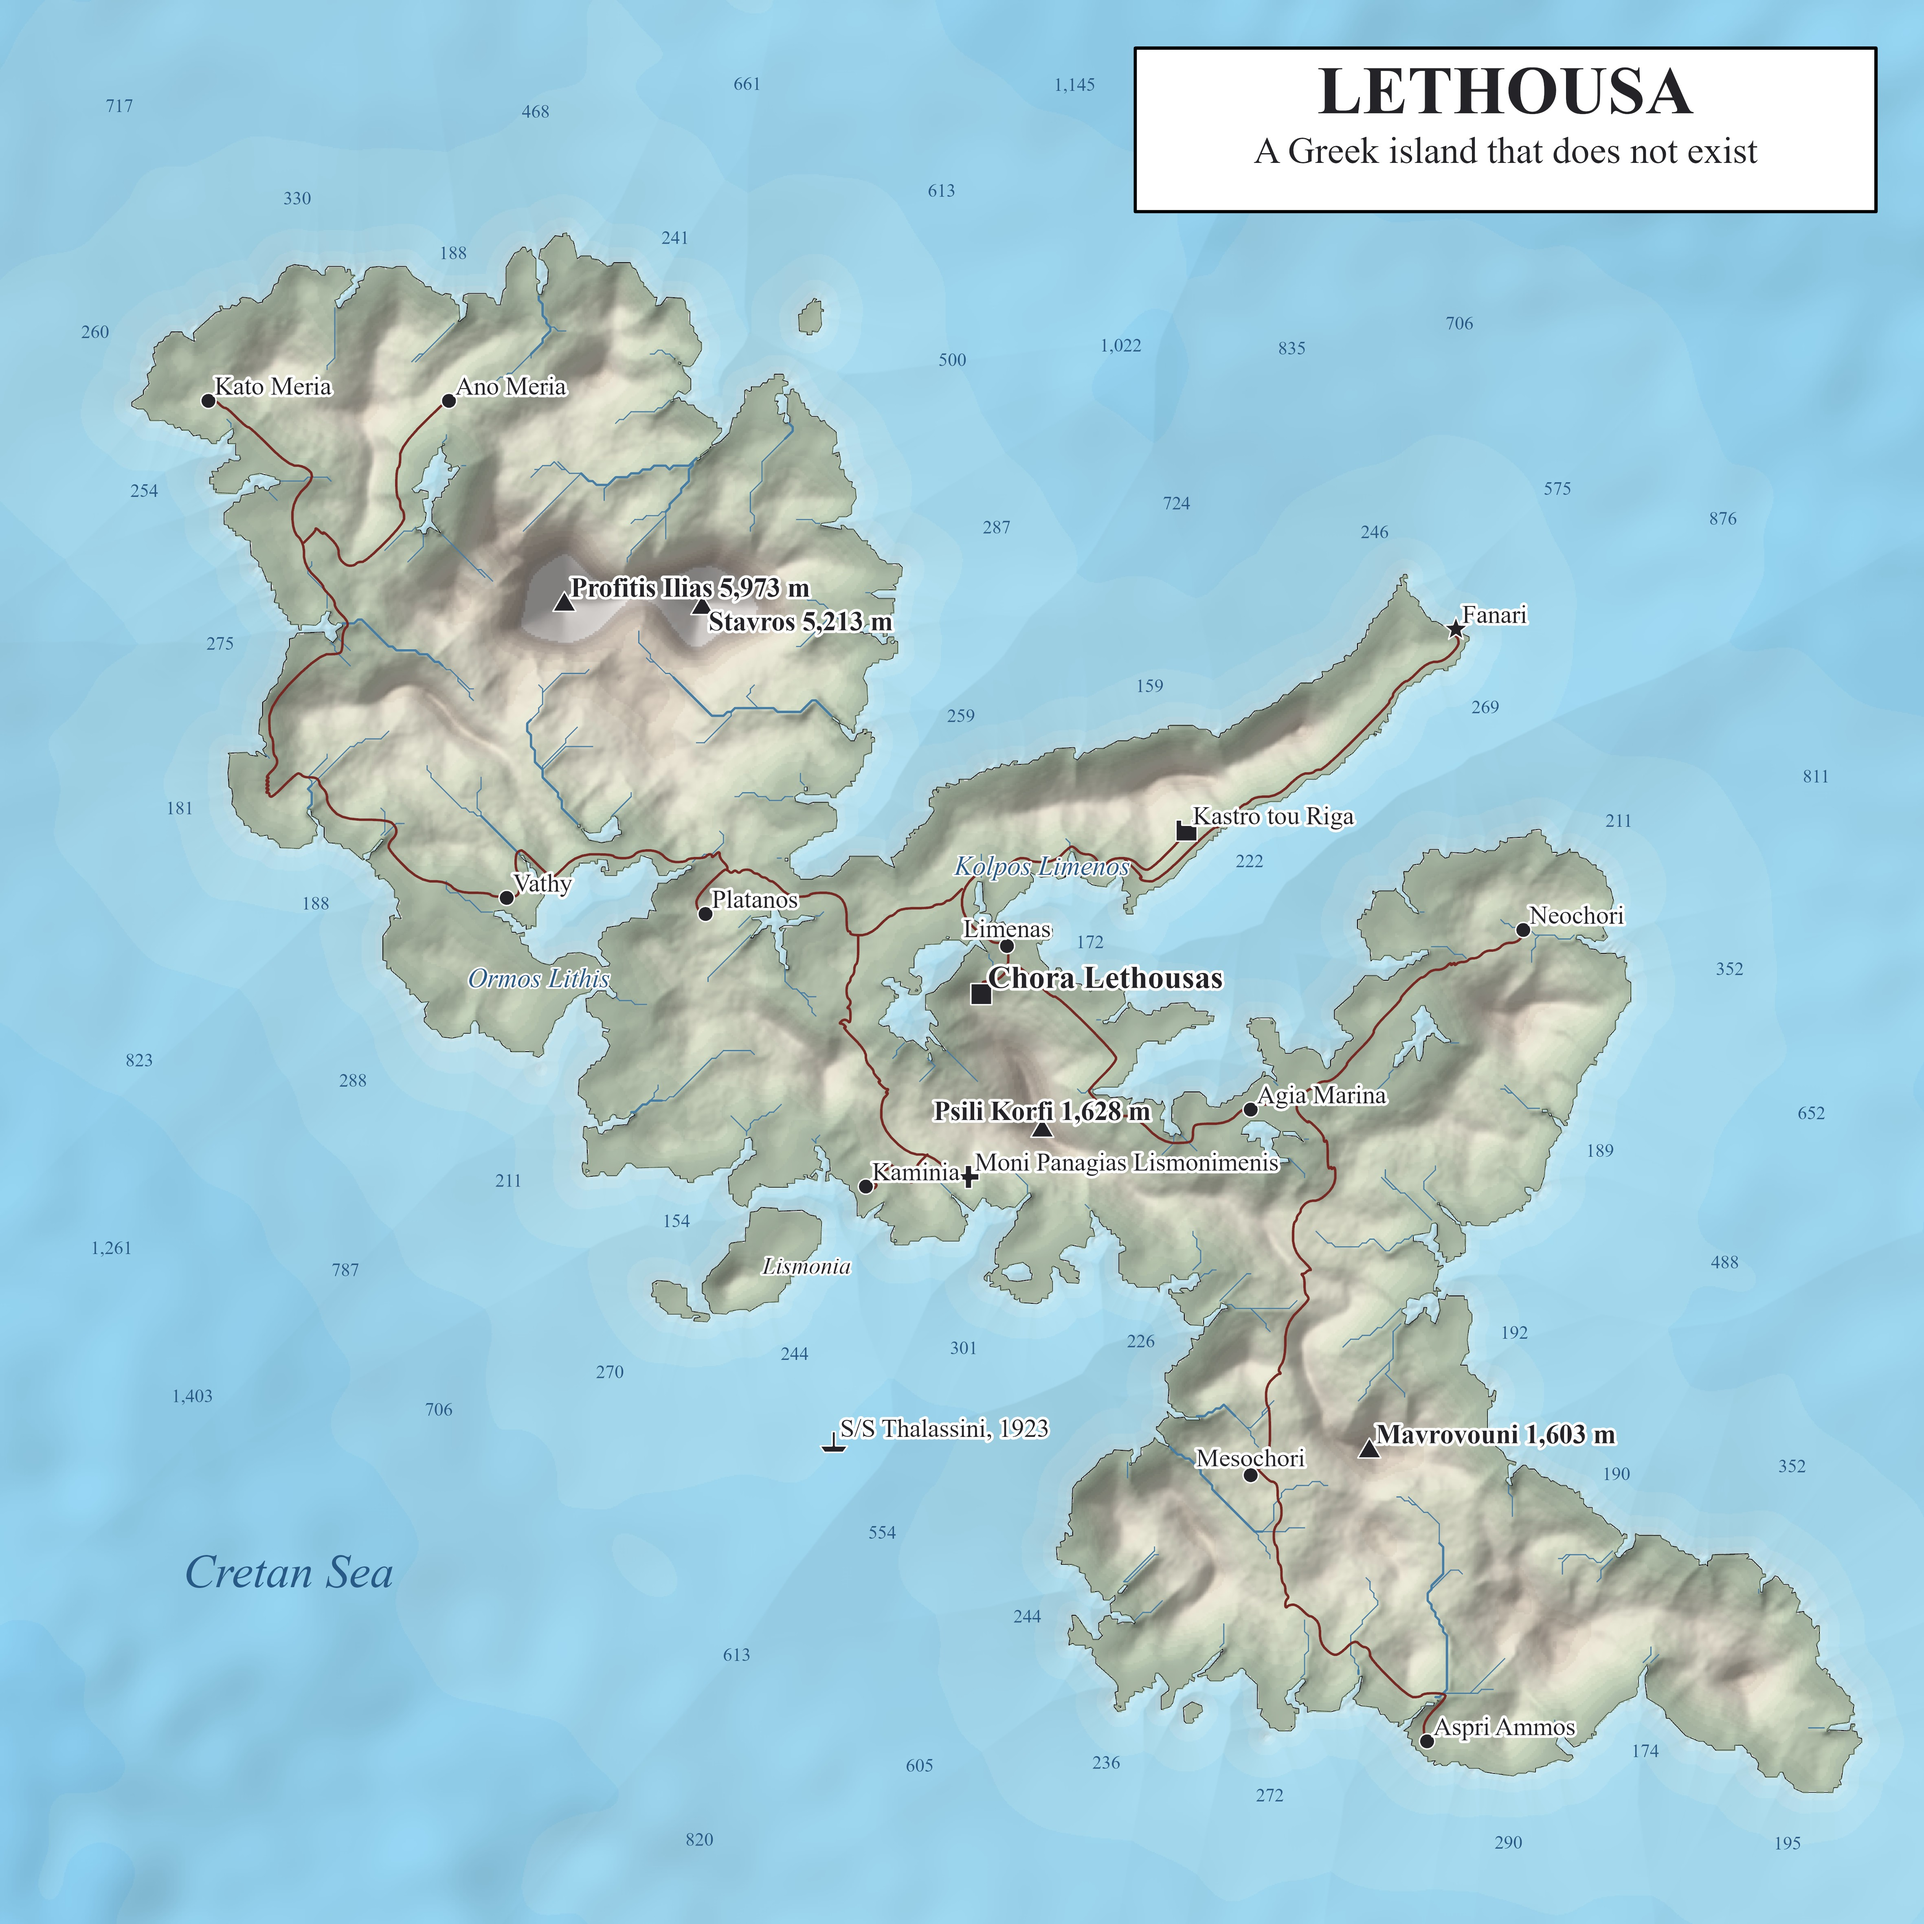
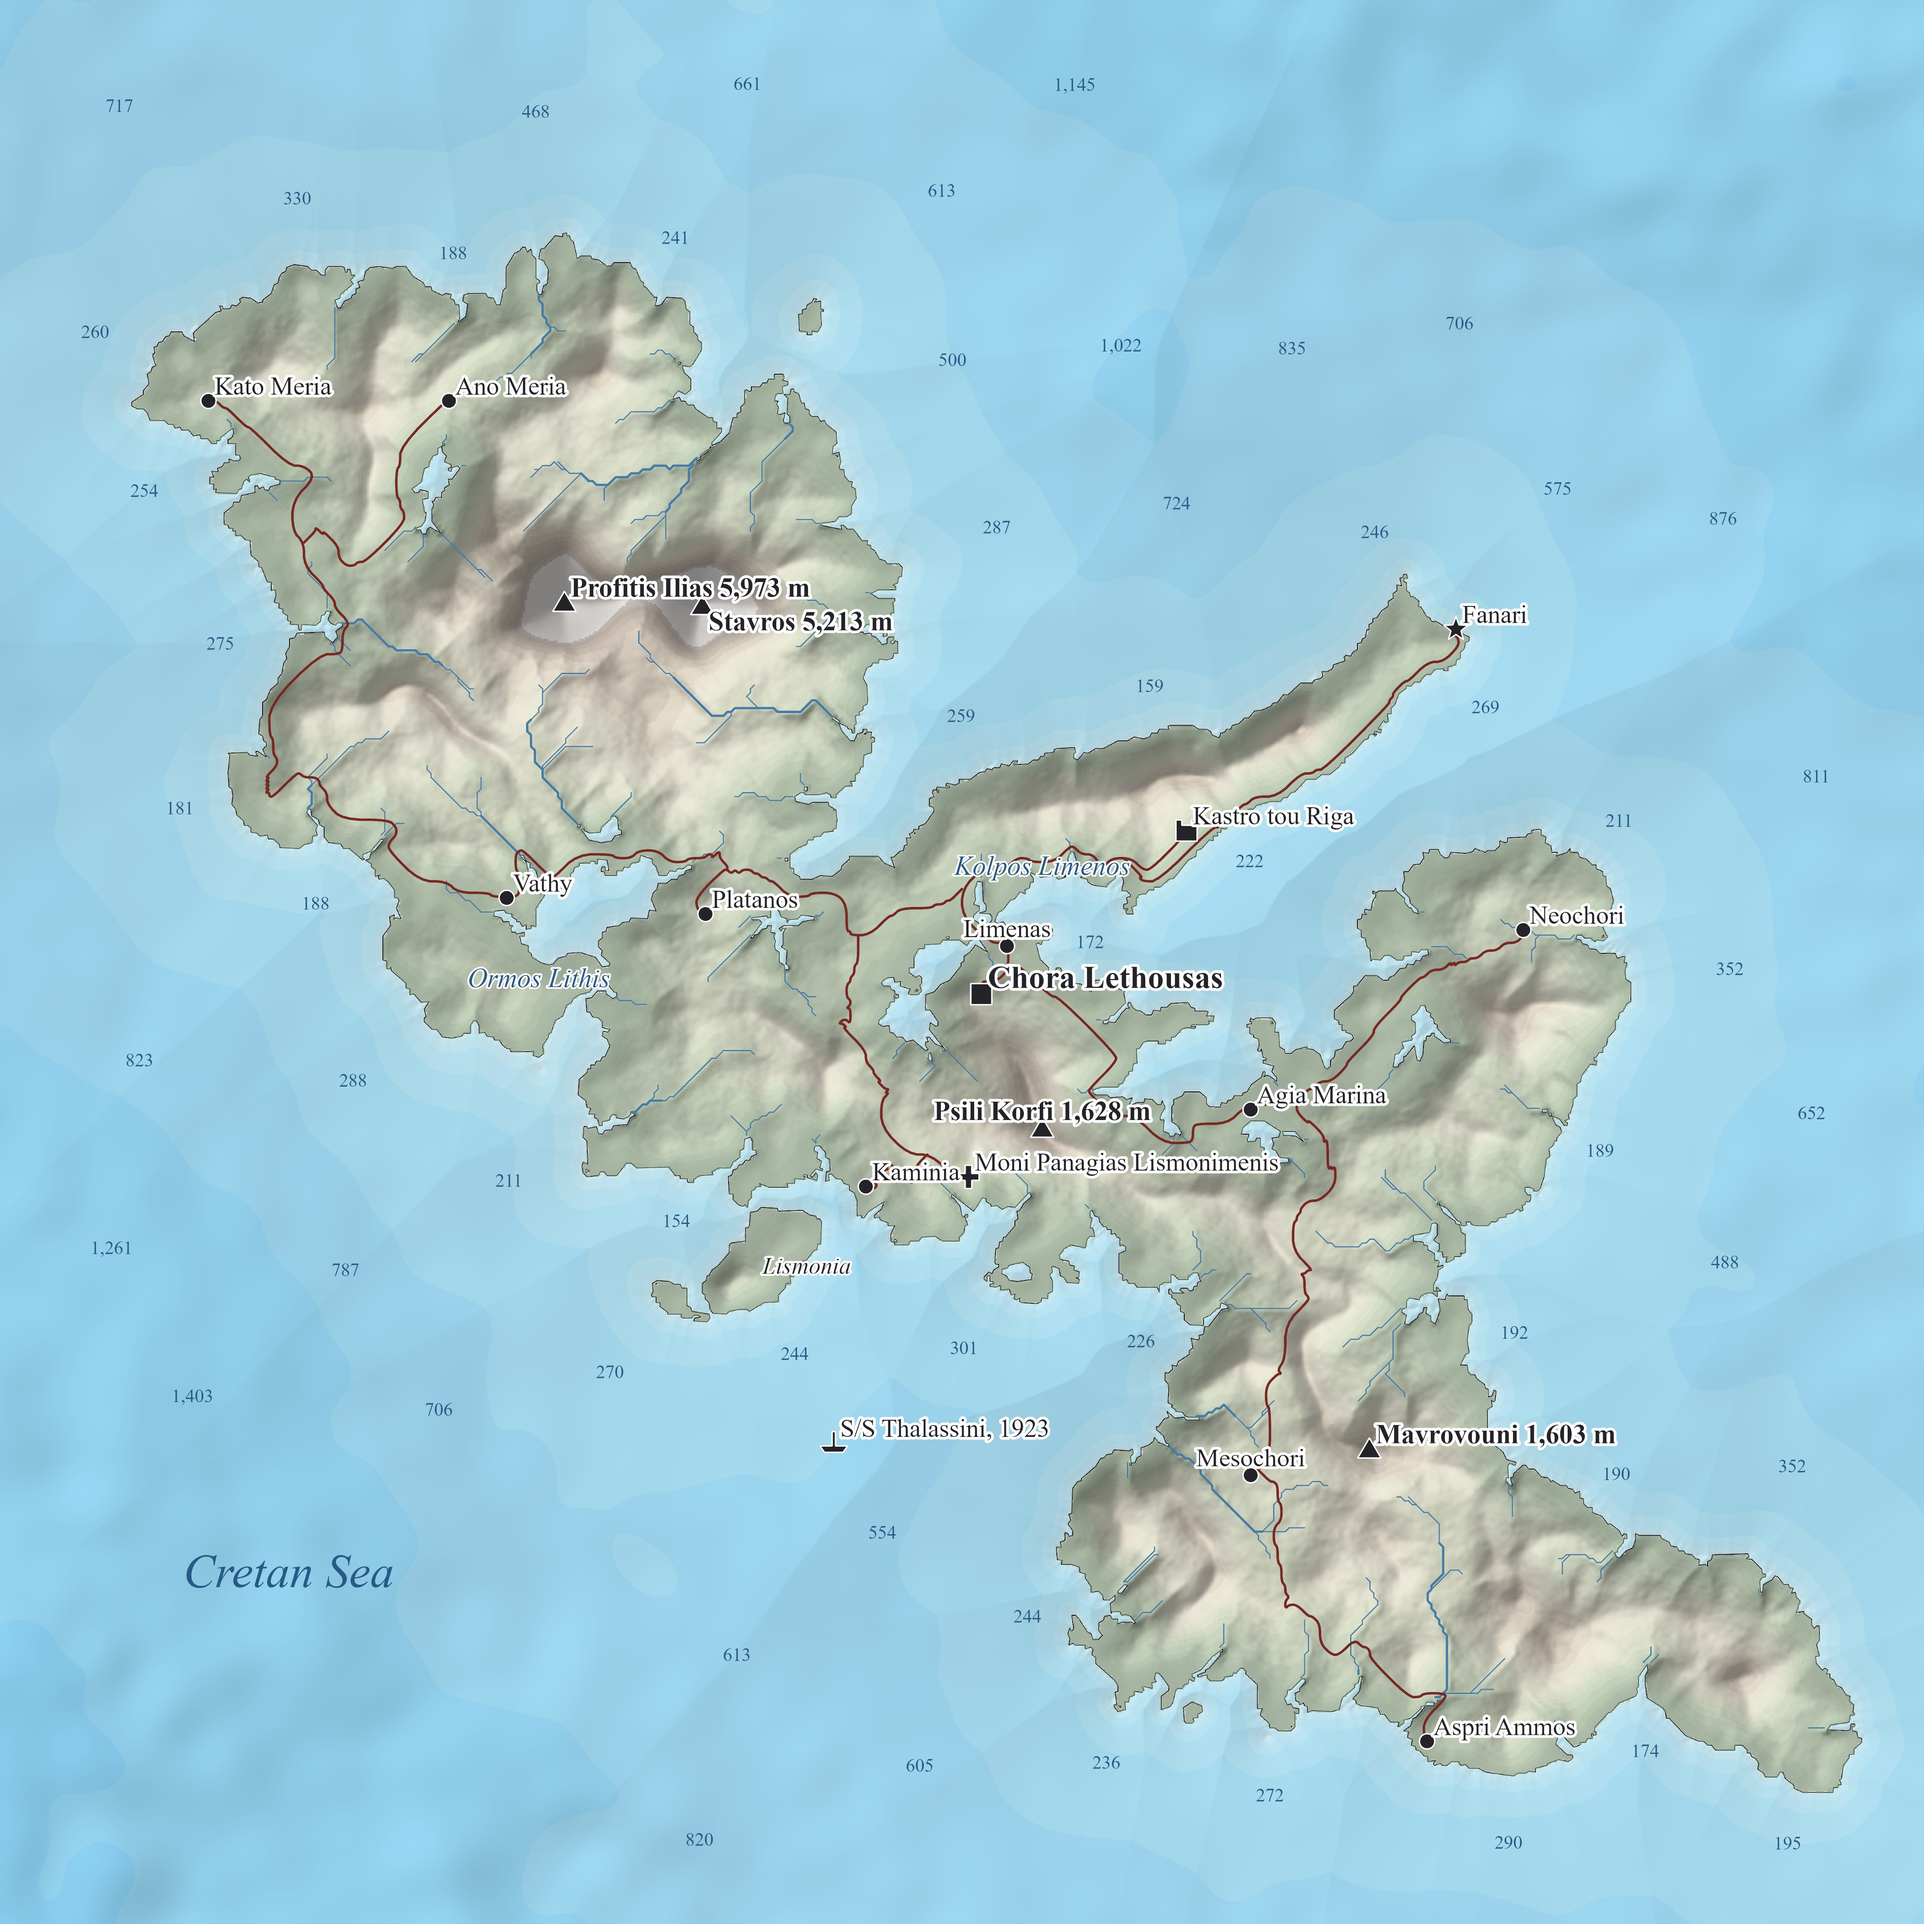
Days 10 and 11: square maps without the title boxes, like the other days

Changed region(s): [[0.5912, 0.0, 0.9958, 0.1245]]

diff --git a/src/content/projects/30dmc-2026-day-10-prompting-only.md b/src/content/projects/30dmc-2026-day-10-prompting-only.md
@@ -10,14 +10,14 @@ image: '/images/30dmc-2026-day-10-wide.webp'
 imageFull: '/images/30dmc-2026-day-10-full.webp'
 imageAlt: 'Printed A4 map of Lethousa, an invented Greek island drawn like a real chart, with hillshaded mountains, villages, roads, streams and depth soundings, and a summit labelled 5,973 m. Panels show where it would sit north of Crete, an invented ferry timetable and an invented census.'
 thumbnail: '/images/30dmc-2026-day-10-square.webp'
-thumbnailAlt: 'Map of an invented Greek island with green and grey mountains, titled Lethousa, a Greek island that does not exist'
+thumbnailAlt: 'Map of an invented Greek island with green and grey mountains'
 downloads:
   - label: 'Full-resolution map'
     href: '/downloads/30dmc-2026-day-10-map.jpg'
     note: 'JPEG · 7016 × 4961 · 3.1 MB'
   - label: 'Square map'
     href: '/downloads/30dmc-2026-day-10-map-square.jpg'
-    note: 'JPEG · 4724 × 4724 · 1.7 MB'
+    note: 'JPEG · 4724 × 4724 · 1.6 MB'
 dataSource:
   - label: 'Hellenic Statistical Authority (ELSTAT) - the real islands in panel A. Everything on the main map is invented.'
     href: 'https://www.statistics.gr/en/digital-cartographical-data'

diff --git a/src/content/projects/30dmc-2026-day-11-sound.md b/src/content/projects/30dmc-2026-day-11-sound.md
@@ -10,7 +10,7 @@ image: '/images/30dmc-2026-day-11-wide.webp'
 imageFull: '/images/30dmc-2026-day-11-full.webp'
 imageAlt: 'Printed A4 map of Greece with its 51 prefectures coloured by radio stations on air per 100,000 residents, palest in Attica and Thessaloniki and darkest on Samos, Chios and in Rethymno. Dark tuner dials show a tick for each station in the fullest and emptiest prefectures, from 48 in Thessaloniki to 2 in Evrytania.'
 thumbnail: '/images/30dmc-2026-day-11-square.webp'
-thumbnailAlt: 'Greece by prefecture, coloured by radio stations per resident, titled The FM Dial'
+thumbnailAlt: 'Greece by prefecture, coloured by radio stations per resident'
 downloads:
   - label: 'Full-resolution map'
     href: '/downloads/30dmc-2026-day-11-map.jpg'
